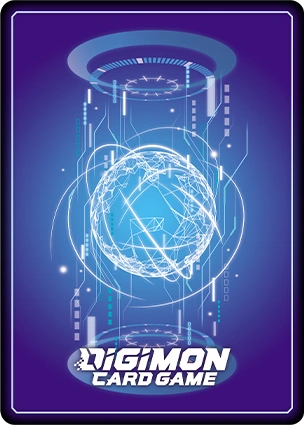
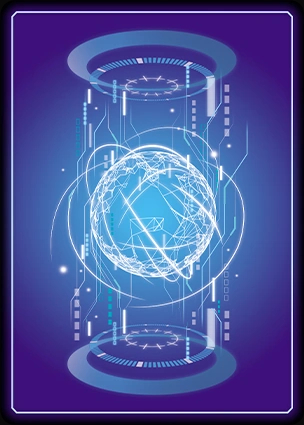
card backs & fix reveal container blocking

Changed region(s): [[0.2368, 0.7035, 0.7697, 0.9176], [0.0, 0.0, 1.0, 1.0], [0.977, 0.0, 1.0, 0.0306]]

diff --git a/frontend/src/pages/Game.tsx b/frontend/src/pages/Game.tsx
@@ -14,7 +14,6 @@ import {useEffect, useState} from "react";
 import styled from "@emotion/styled";
 import SurrenderMoodle from "../components/game/SurrenderMoodle.tsx";
 import deckBack from "../assets/deckBack.png";
-import deckBackOpponent from "../assets/deckBackOpponent.png";
 import eggBack from "../assets/eggBack.jpg";
 import Card from "../components/Card.tsx";
 import cardBack from "../assets/cardBack.jpg";
@@ -859,7 +858,7 @@ export default function Game({user}: { user: string }) {
                             </PlayerContainer>
 
                             <OpponentDeckContainer>
-                                <img alt="deck" src={deckBackOpponent} width="105px"/>
+                                <img alt="deck" src={deckBack} width="105px"/>
                                 <TrashSpan
                                     style={{transform: "translateX(15px)"}}>{opponentDeckField.length}</TrashSpan>
                             </OpponentDeckContainer>
@@ -2051,6 +2050,10 @@ const RevealContainer = styled.div`
   align-items: center;
   gap: 5px;
   transform: scale(2);
+  pointer-events: none;
+  * {
+    pointer-events: initial;
+  }
 `;
 
 const StartingName = styled.span`

diff --git a/backend/src/main/java/com/github/wekaito/backend/websocket/GameService.java b/backend/src/main/java/com/github/wekaito/backend/websocket/GameService.java
@@ -131,9 +131,12 @@ public class GameService extends TextWebSocketHandler {
 
         if (payload.startsWith("/startGame:") && parts.length >= 2) {
             String gameId = parts[1].trim();
-            setUpGame(session, gameId);
+            String username1 = gameId.split("‗")[0];
+            String username2 = gameId.split("‗")[1];
+            setUpGame(session, gameId, username1, username2);
+            if (username2.equals(session.getPrincipal().getName())) return;
             Thread.sleep(3600);
-            distributeCards(gameId);
+            distributeCards(gameId, username1, username2);
             return;
         }
 
@@ -203,11 +206,9 @@ public class GameService extends TextWebSocketHandler {
         }
     }
 
-    void setUpGame(WebSocketSession session, String gameId) throws IOException, InterruptedException {
+    void setUpGame(WebSocketSession session, String gameId, String username1, String username2) throws IOException, InterruptedException {
         Set<WebSocketSession> gameRoom = gameRooms.computeIfAbsent(gameId, key -> new HashSet<>());
         gameRoom.add(session);
-        String username1 = gameId.split("‗")[0];
-        String username2 = gameId.split("‗")[1];
 
         String avatar1 = mongoUserDetailsService.getAvatar(username1);
         String avatar2 = mongoUserDetailsService.getAvatar(username2);
@@ -231,12 +232,11 @@ public class GameService extends TextWebSocketHandler {
         }
     }
 
-    void distributeCards(String gameId) throws IOException, InterruptedException {
+    void distributeCards(String gameId, String username1, String username2) throws IOException, InterruptedException {
         Set<WebSocketSession> gameRoom = gameRooms.get(gameId);
-        String user1 = gameId.split("‗")[0];
-        String user2 = gameId.split("‗")[1];
-        List<Card> deck1 = deckService.getDeckCardsById(mongoUserDetailsService.getActiveDeck(user1));
-        List<Card> deck2 = deckService.getDeckCardsById(mongoUserDetailsService.getActiveDeck(user2));
+
+        List<Card> deck1 = deckService.getDeckCardsById(mongoUserDetailsService.getActiveDeck(username1));
+        List<Card> deck2 = deckService.getDeckCardsById(mongoUserDetailsService.getActiveDeck(username2));
 
         List<GameCard> newDeck1 = createGameDeck(deck1);
         List<GameCard> newDeck2 = createGameDeck(deck2);
